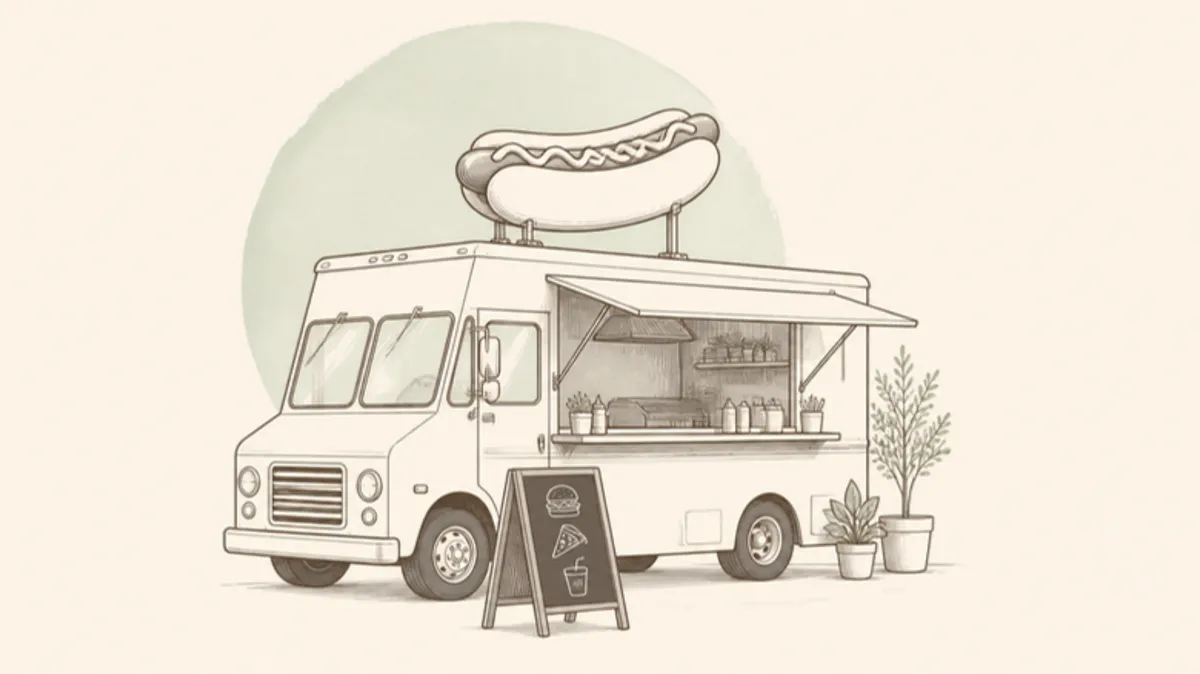
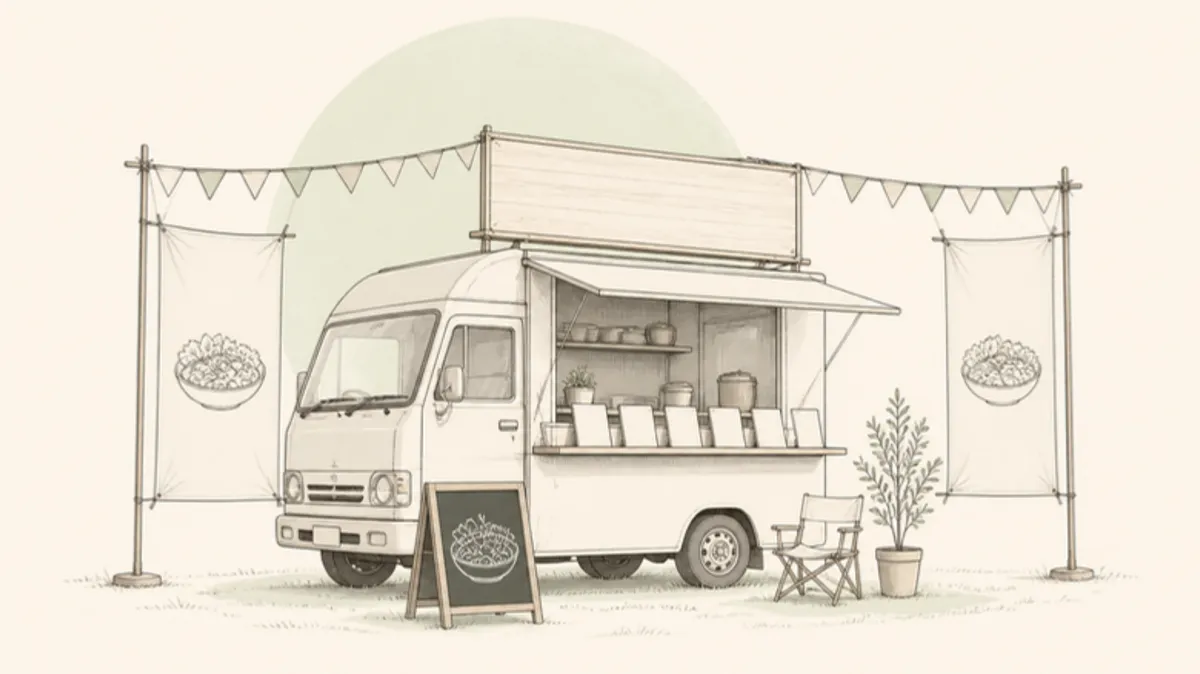
キッチンカーの看板記事の挿絵を、屋根の板看板と垂れ幕の絵に変更

Changed region(s): [[0.0617, 0.1558, 0.925, 0.9659], [0.1542, 0.8724, 0.185, 0.9036]]

diff --git a/content/posts/kitchen-car-signboard.md b/content/posts/kitchen-car-signboard.md
@@ -72,7 +72,7 @@ products:
 
 キッチンカーの売上は、**お客様に見つけてもらえるか**と、**メニューをすぐに選んでもらえるか**で大きく変わります。イベント会場ではたくさんのお店が並ぶため、看板とメニューボードの工夫が欠かせません。手書きの看板もすてきですが、遠くから見えるかどうかは一度確かめておきたいところです。
 
-![ハンバーガーやピザの絵を描いたA型看板と、屋根にホットドッグ形の看板を取り付けたキッチンカーのイラスト](/images/posts/kitchen-car-signboard-1.webp)
+![屋根に板の看板を付け、両側に垂れ幕とガーランドを飾ったキッチンカーと、A型のメニュー看板のイラスト](/images/posts/kitchen-car-signboard-1.webp)
 
 この記事では、看板とメニューボードの種類と、注文が増えるメニュー表の作り方を解説します。
 
